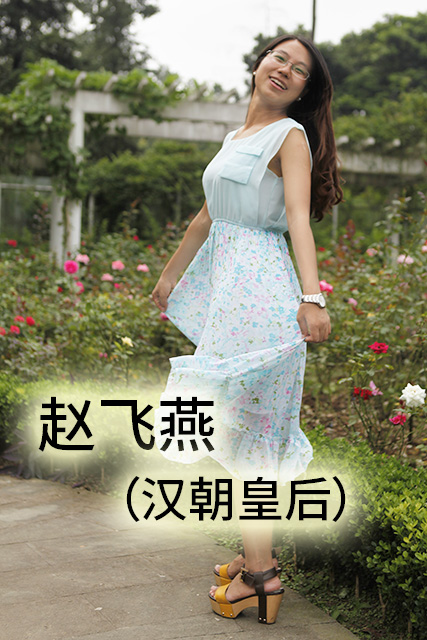
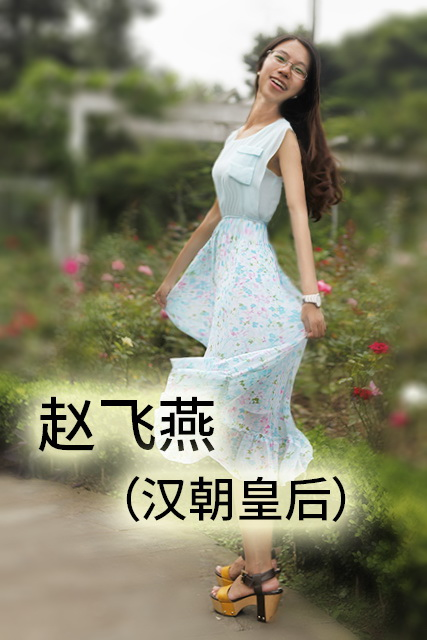
调整“风起云涌”的图片及排版

diff --git a/resources/views/index/qingjingdaoru.blade.php b/resources/views/index/qingjingdaoru.blade.php
@@ -2,25 +2,35 @@
 @section('content')
     <header class="jumbotron subhead" id="overview">
         <div class="container">
-            <h1>情景引入</h1>
+            <h1>风起云涌</h1>
+
             <p class="lead"></p>
         </div>
     </header>
 
     <div class="container">
-        <div class="marketing">
-            <h1>时空穿越</h1>
-            <p class="marketing-byline">话说当年汉朝皇后赵飞燕和唐朝贵妃杨玉环，穿越到现代，她们都觉得自己是大美人。但是现代人都觉得苗条的赵飞燕是大美女，而胖胖的杨玉环很难看，杨玉环发奋减肥，因减肥过度，送进了医院。</p>
-            <div class="row-fluid">
-                <div class="span4 offset1">
-                    <img class="" src="/img/shou.jpg">
-                    <h2>赵飞燕</h2>
+        <div class="row">
+            <div class="span8 offset2">
+                <div class="page-header">
+                    <h1>时空穿越</h1>
                 </div>
-                <div class="span4 offset2">
-                    <img class="" src="/img/pang.jpg">
-                    <h2>杨玉环</h2>
+
+                <p class="lead">
+                    &emsp;&emsp;话说当年汉朝皇后赵飞燕和唐朝贵妃杨玉环，穿越到现代，她们都觉得自己是大美人。但是现代人都觉得苗条的赵飞燕是大美女，而胖胖的杨玉环很难看，杨玉环发奋减肥，因减肥过度，送进了医院。
+                </p>
+
+                <div class="row-fluid">
+                    <div class="span5">
+                        <img class="" src="/img/shou.jpg">
+
+                        <h2 align="center">赵飞燕</h2>
+                    </div>
+                    <div class="span5 offset2">
+                        <img class="" src="/img/pang.jpg">
+
+                        <h2 align="center">杨玉环</h2>
+                    </div>
                 </div>
             </div>
         </div>
-    </div>
 @stop

diff --git a/resources/views/index/kechengzongjie.blade.php b/resources/views/index/kechengzongjie.blade.php
@@ -13,11 +13,11 @@
                 <div class="page-header">
                     <h1>总结项目</h1>
                 </div>
-                <p>1. 本课知识点。练会各级武功即可。</p>
+                <p class="lead">1. 本课知识点。练会各级武功即可。</p>
 
-                <p>2. 树立正确的健康观念，随时关注自己的BMI值。做到膳食均衡，不挑食、不偏食；积极参加各种体育活动。</p>
+                <p class="lead">2. 树立正确的健康观念，随时关注自己的BMI值。做到膳食均衡，不挑食、不偏食；积极参加各种体育活动。</p>
 
-                <p>3. <a href="/comment">点我“网络留言”</a></p>
+                <p class="lead">3. <a href="/comment">点我“网络留言”</a></p>
             </div>
     </div>
 @stop
